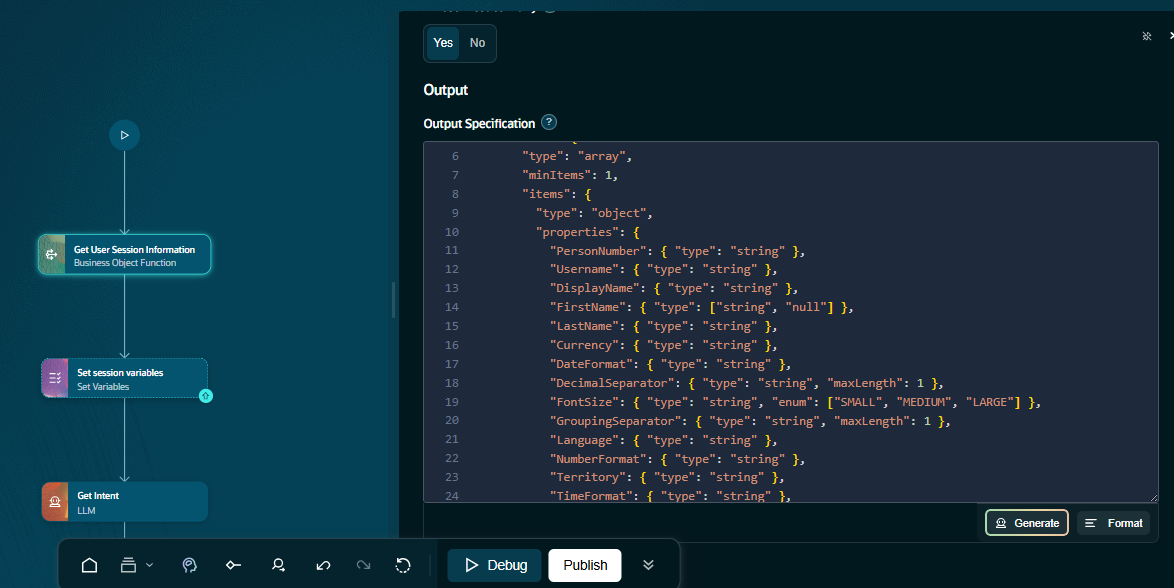
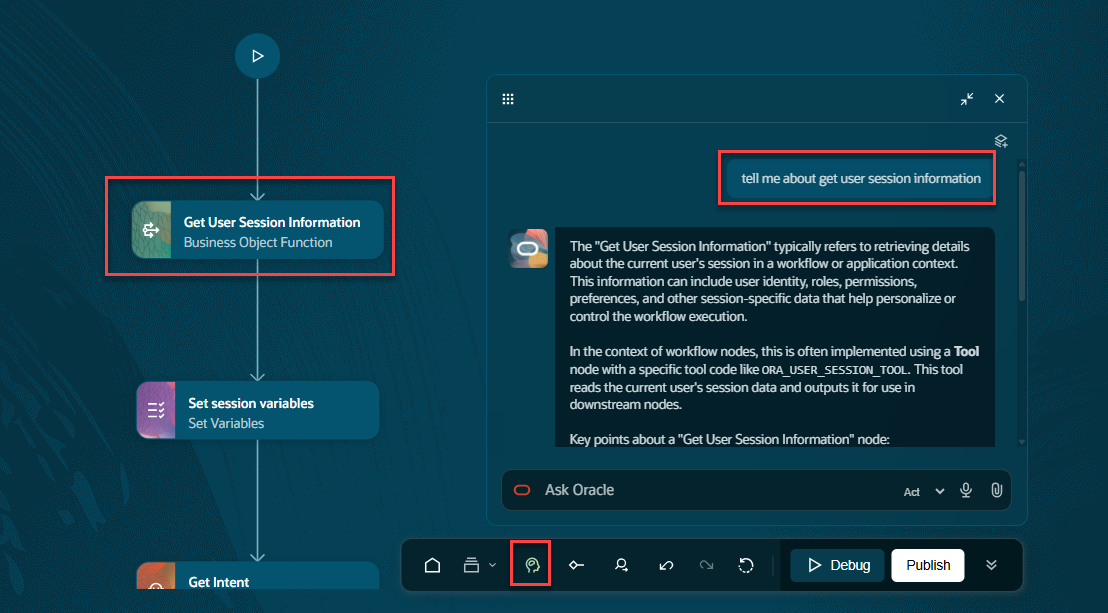
added text about using the agentic brain in the introduction section

diff --git a/apps-ai-experience-workflow-intro-26c/01-workflow-explore/workflow_explore.md b/apps-ai-experience-workflow-intro-26c/01-workflow-explore/workflow_explore.md
@@ -35,31 +35,28 @@ Understand the structure of a workflow and agent tools in AI Agent Studio.
    ![Duplicating the master workflow](images/unique_name.png " ")
 
 7. Now that we have our own copy of the workflow we can explore some of the nodes and features.</br>
-   ![Workflow copied](images/inside_the_workflow.png =70%x*)
+   ![Workflow copied](images/inside_the_workflow.png =60%x*)
 
 ## Task 2: Examine the Workflow
 
-1. Examine the Get User Session Information Node
+1. Examine the Workflow</br>
+   Starting in 26C you now have a very powerful wizard or 'agentic brain' available in the workflow editor that can troubleshoot/explain and update workflows & resources just by asking it questions.  We are going to use this feature to explain the workflow and nodes in the workflow.</br></br>
+    Click on the icon at the bottom of the page to get started.</br>
+    ![Invoking the Agentic Brain](images/AI_Helper.png =60%x*)</br>
 
-   Start by clicking on the **Get User Session Information** then scroll down to the output specification.
 
-    Note that Node **getUserSession** is part of the business object the **Self Detail** business object.
-    The getUserSession node copies the Fusion users credentials.  These credentials enforce role-based-access when accessing other Fusion Business Objects ensuring that the user is prevented from accessing information in Fusion they aren't entitled to.</br>
+   Scroll down to the **Get User Session Information** node.
+   Ask the wizard to explain this node - **"Tell me about the get user session information node"**</br>
+   ![User Session Details](images/get_user_session.png =60%x*)
 
-   ![User Session Details](images/get_user_session.png =70%x*)
-    Close the dialog window by clicking **x** in the upper left hand corner.
-
-2. Examine The Get Intent Node
+2. Examine The Get Intent Node</br>
+   Scroll down to the **Get Intent** node.
+      Ask the wizard to explain this node - **"Tell me about the Get Intent node"**</br>
+   ![Agent Brain's provides details about this node ](images/explain_get_intent_node_2.png =60%x*)
    The Get Intent Node leverages a LLM to determine the intent of the user's input.  In this workflow it's specifically looking to see if the user want to create a requisition.</br>
 
-   You can see from the prompt, the users input is used by the LLM to identify what action was requested.</br>
-   ![Details of the LLM Node](images/get_intent.png =90%x*)</br>
-3. Examine The File Processor Node
-
-   The File Processor accepts files passed to it, processes their content, and returns structured output.  No custom setup is required - Include the conversation Identifier - what variable in the workflow contains the uploaded file - add it to your workflow
-
-   ![Details of File Processor Node](images/file_processor.png =80%x*)
-
+   Click on the **Get Intent Node**.  You can see from the prompt, the users input is used by the LLM to identify what action was requested.</br>
+   ![Details of the LLM Node](images/get_intent_details.png =70%x*)</br>
    This completes our examination of a few of the nodes in this workflow.
 
 
